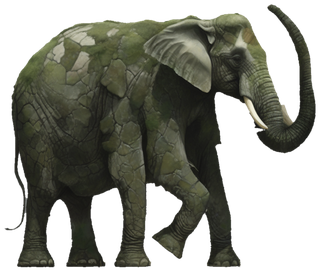
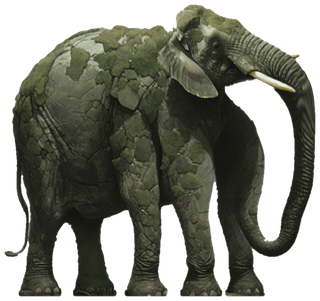
Victory stills: CPU-warp Durrok and Vortigal replace r992/r979 i2i (art-director approved, beats shipped)
Sources + approval in provenance/ (r992/r979 kept as history), generator scripts in cpu-warp/, pins updated.

diff --git a/tests/repo/victory-frames.test.ts b/tests/repo/victory-frames.test.ts
@@ -11,14 +11,14 @@ const STILLS: Record<string, { src: string; srcSha: string; outSha: string; faci
[13 lines of base64/hex data omitted]
 };
 
 describe('victory frames (tools/assets/victory-gen/victory-key.py)', () => {

diff --git a/tools/assets/victory-gen/victory-key.py b/tools/assets/victory-gen/victory-key.py
@@ -3,7 +3,7 @@
 Usage: python -I tools/assets/victory-gen/victory-key.py [outdir]   (default public/assets/img/victory)
 Reads each source named in HEROES from tools/assets/victory-gen/provenance/ (approval and facing in provenance/approval.json, sha256 pinned in
 tests/repo/victory-frames.test.ts), writes <outdir>/<hero>_victory.png. Sources are 1024x1024 on flat grey, except kindrel's, which is already a
-transparent cut-out (only cropped and scaled). brazgor/nykra/hyalia come from the wave-B warps (wb.py, then fix.py cleaned backdrop residue; both
+transparent cut-out (only cropped and scaled). durrok and vortigal are CPU warps (cpu-warp/, not rerun here). brazgor/nykra/hyalia come from the wave-B warps (wb.py, then fix.py cleaned backdrop residue; both
 kept here as the record, they need the private warp workspace and are not rerun by the installer).
 Steps: flood-fill the grey background from the four corners (tolerance 14), erode the matte 1 px and feather it 1 px, crop to the
 body plus a 12 px margin, scale to fit the 320x314 map-portrait box (same scale class as map/glimmawLarge.png and the KO frame).
@@ -21,14 +21,14 @@ HEROES = {
     "glimmaw": "r971-glimmaw-vic_60160_d0.35.png",
     "brazgor": "brazgor_win.png",
     "kindrel": "kindrel_win.png",
-    "vortigal": "r979-vortigal-win_97903_d0.35.png",
+    "vortigal": "vortigal_win.png",
     "zephra": "r978-zephra-win2_97810_d0.2.png",
     "nykra": "nykra_win.png",
     "hyalia": "hyalia_win.png",
     "ouroth": "r821-ouroth-vic_59822_d0.45.png",
     "umbrel": "r805-umbrel-victory_58210_d0.5.png",
     "abyssor": "r842-abyssor-vic_61100_d0.4.png",
-    "durrok": "r992-durrok-vic_99200_d0.2.png",
+    "durrok": "durrok_win.png",
 }
 TOL, MARGIN, BOX = 14, 12, (320, 314)
 KEY = (255, 0, 255)

diff --git a/tools/assets/victory-gen/cpu-warp/vortigal3.py b/tools/assets/victory-gen/cpu-warp/vortigal3.py
@@ -1,0 +1,22 @@
+# CPU-warp victory init (see README.md). Usage: python -I tools/assets/victory-gen/cpu-warp/NAME3.py <warp_dir> <base_image> <out.png>
+# <warp_dir> holds warp.py and waveA/ (tools/assets/victory-gen/durrok-warp). Then run lcc.py on the output (keeps the largest blob).
+import sys; WD=sys.argv[1]; sys.path.insert(0,WD); sys.path.insert(0,WD+'/waveA')
+import numpy as np
+from PIL import Image, ImageFilter
+import warp as W, wave as V
+V.PAD = PAD = 200
+S = V.sstep
+im = Image.open(sys.argv[2]).convert('RGB'); a = np.asarray(im).astype(int)
+d = np.abs(a-128).max(axis=2); m = Image.fromarray(((d>10)*255).astype(np.uint8)).filter(ImageFilter.MaxFilter(3)).filter(ImageFilter.GaussianBlur(1.2))
+rgba = np.dstack([a.astype(np.uint8), np.asarray(m)]); h,w = rgba.shape[:2]
+b = np.zeros((h+2*PAD,w+2*PAD,4),np.uint8); b[PAD:PAD+h,PAD:PAD+w]=rgba
+# right wing (lower right): lift CCW about shoulder; left wing: steepen CW
+Rw = lambda x,y: S((x-560)/180)*S((760-y)/160)
+Lw = lambda x,y: S((500-x)/160)*S((480-y)/160)
+Hd = lambda x,y: S((x-600)/100)*S((330-y)/100)*S((y-150)/60)
+out = V.zone_warp(b, [((620,340), 52, Rw), ((480,330), -28, Lw), ((640,290), 32, Hd)])
+a8 = (out*255+.5).astype(np.uint8); a8[a8[...,3]<8]=0
+ys,xs = np.nonzero(a8[...,3]>8); a8=a8[ys.min():ys.max()+1, xs.min():xs.max()+1]; hh,ww=a8.shape[:2]
+s=min(.8*1024/hh,.92*1024/ww); t=Image.fromarray(a8,'RGBA').resize((round(ww*s),round(hh*s)),Image.LANCZOS)
+cv=Image.new('RGBA',(1024,1024),(128,128,128,255)); cv.alpha_composite(t,((1024-t.width)//2,(1024-t.height)//2))
+cv.convert('RGB').save(sys.argv[3]); print(t.size)

diff --git a/tools/assets/victory-gen/cpu-warp/durrok3.py b/tools/assets/victory-gen/cpu-warp/durrok3.py
@@ -1,0 +1,19 @@
+# CPU-warp victory init (see README.md). Usage: python -I tools/assets/victory-gen/cpu-warp/NAME3.py <warp_dir> <base_image> <out.png>
+# <warp_dir> holds warp.py and waveA/ (tools/assets/victory-gen/durrok-warp). Then run lcc.py on the output (keeps the largest blob).
+import sys; WD=sys.argv[1]; sys.path.insert(0,WD); sys.path.insert(0,WD+'/waveA')
+import numpy as np
+from PIL import Image, ImageFilter
+import warp as W, wave as V
+V.PAD = PAD = 250
+S = V.sstep
+a = np.asarray(Image.open(sys.argv[2]).convert('RGB')).astype(int)
+d = np.abs(a-128).max(axis=2); m = Image.fromarray(((d>10)*255).astype(np.uint8)).filter(ImageFilter.MaxFilter(3)).filter(ImageFilter.GaussianBlur(1.2))
+rgba = np.dstack([a.astype(np.uint8), np.asarray(m)]); h,w = rgba.shape[:2]
+b = np.zeros((h+2*PAD,w+2*PAD,4),np.uint8); b[PAD:PAD+h,PAD:PAD+w]=rgba
+Hd = lambda x,y: S((x-560)/240)*S((600-y)/240)
+out = V.zone_warp(b, [((700,330), 40, Hd)])
+a8 = (out*255+.5).astype(np.uint8); a8[a8[...,3]<8]=0
+ys,xs = np.nonzero(a8[...,3]>8); a8=a8[ys.min():ys.max()+1, xs.min():xs.max()+1]; hh,ww=a8.shape[:2]
+s=min(.8*1024/hh,.92*1024/ww); t=Image.fromarray(a8,'RGBA').resize((round(ww*s),round(hh*s)),Image.LANCZOS)
+cv=Image.new('RGBA',(1024,1024),(128,128,128,255)); cv.alpha_composite(t,((1024-t.width)//2,(1024-t.height)//2))
+cv.convert('RGB').save(sys.argv[3]); print(t.size)

diff --git a/tools/assets/victory-gen/cpu-warp/lcc.py b/tools/assets/victory-gen/cpu-warp/lcc.py
@@ -1,0 +1,9 @@
+import sys; import numpy as np
+from PIL import Image, ImageFilter
+from scipy import ndimage
+for p in sys.argv[1:]:
+    a=np.asarray(Image.open(p).convert('RGB')).astype(int); d=np.abs(a-128).max(axis=2)>14
+    d=ndimage.binary_closing(d,iterations=3); lab,n=ndimage.label(d); sz=ndimage.sum(d,lab,range(1,n+1))
+    k=ndimage.binary_dilation(lab==1+int(np.argmax(sz)),iterations=2)
+    al=np.asarray(Image.fromarray((k*255).astype(np.uint8)).filter(ImageFilter.GaussianBlur(1.2))).astype(float)[...,None]/255
+    o=a*al+128*(1-al); Image.fromarray(o.astype(np.uint8)).save(p.replace('.png','_c.png')); print(p,n)

diff --git a/tools/assets/victory-gen/cpu-warp/README.md b/tools/assets/victory-gen/cpu-warp/README.md
@@ -1,0 +1,12 @@
+# CPU-warp victory stills (durrok, vortigal), provenance
+
+`durrok3.py` and `vortigal3.py` warp a matted base image (durrok: `durrok-120651-rg3.png`, vortigal: `matte/vortigal.png`, both from the
+private art workspace) into a victory pose with `../durrok-warp/warp.py` + `waveA/wave.py`; `lcc.py` then keeps the largest connected blob
+(a `_c.png` next to each input). `../fix.py` (hairline cleanup) is the same script used for brazgor/nykra/hyalia and was not changed.
+
+    python -I durrok3.py <warp_dir> <base_image> durrok_win3.png && python -I lcc.py durrok_win3.png   # -> durrok_win3_c.png
+    python -I vortigal3.py <warp_dir> <base_image> vortigal_win3.png && python -I lcc.py vortigal_win3.png
+
+`<warp_dir>` is `tools/assets/victory-gen/durrok-warp`. The `_win3_c.png` outputs are the approved stills
+`../provenance/durrok_win.png` and `vortigal_win.png` (art-director 2026-11-23, beats_shipped, replacing the r992 / r979 i2i stills,
+which stay in provenance as history). Needs numpy, scipy, opencv, Pillow. Not run by tests or CI.
